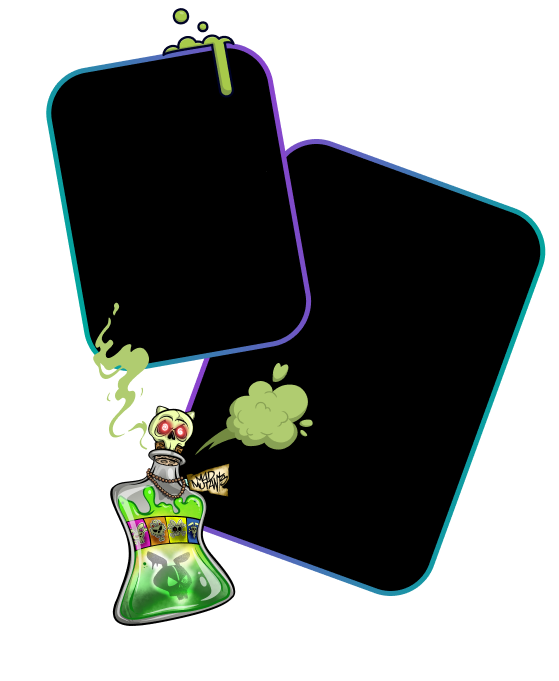
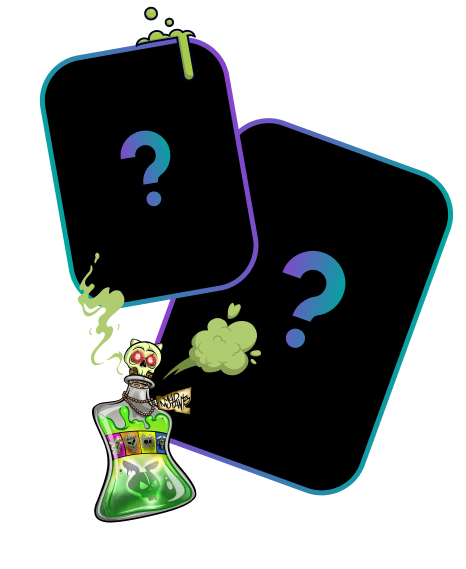
Update main page

diff --git a/assets/scss/pages/mutants/mutants.scss b/assets/scss/pages/mutants/mutants.scss
@@ -812,7 +812,7 @@
       z-index: -1;
       position: relative;
       background-color: $grey;
-      margin-bottom: 350px;
+      margin-bottom: 310px;
 
       &::after {
         @extend .small-point;
